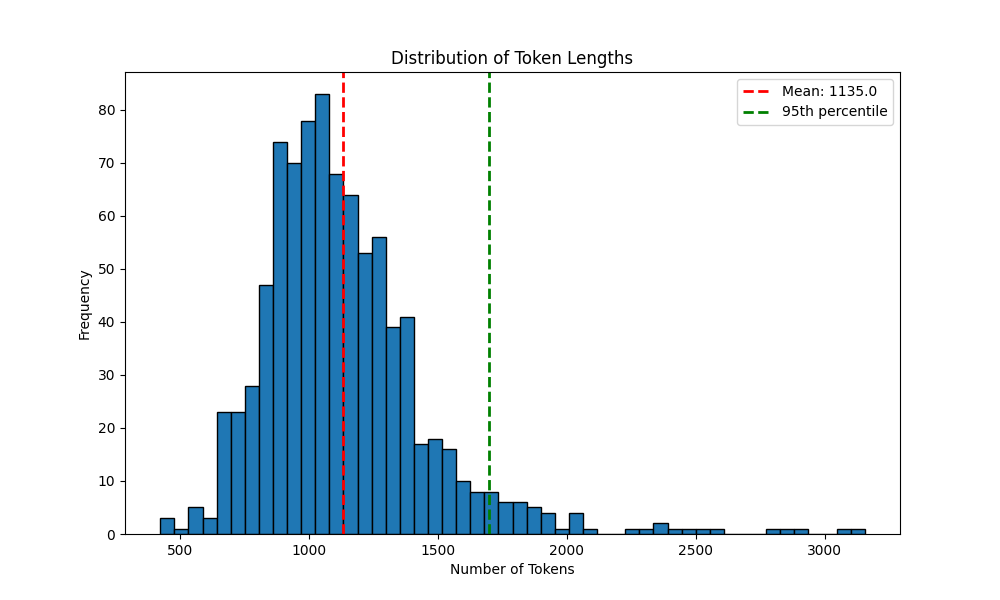
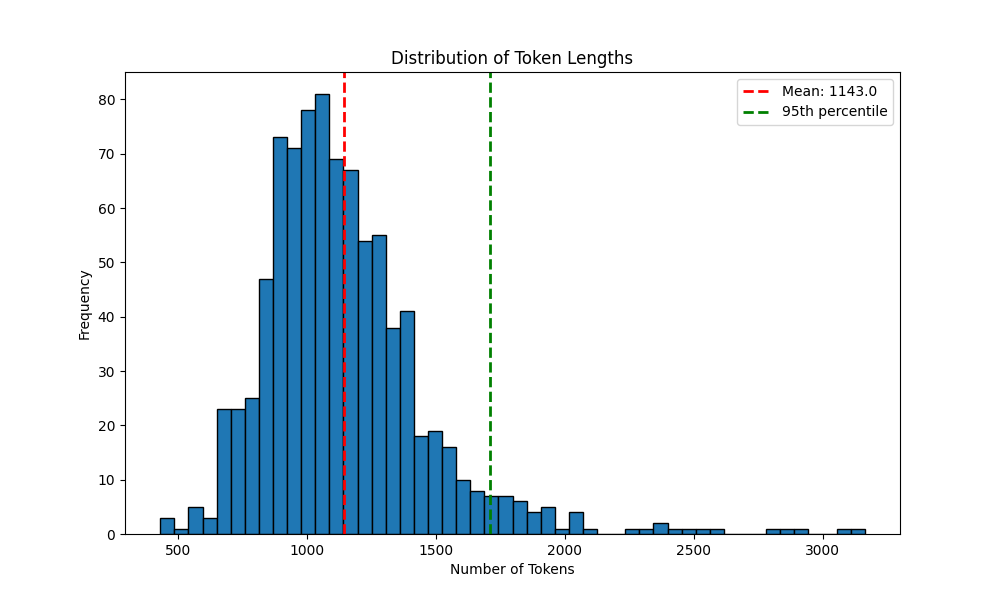
Not using <reasoning> as a special token

diff --git a/src/train_svg_model.py b/src/train_svg_model.py
@@ -68,8 +68,8 @@ class SVGDataset:
                 self.data.append(json.loads(line.strip()))
                 
         # Add special tokens if not present
-        special_tokens = {"additional_special_tokens": ["<reasoning>", "</reasoning>"]}
-        self.tokenizer.add_special_tokens(special_tokens)
+        # special_tokens = {"additional_special_tokens": ["<reasoning>", "</reasoning>"]}
+        # self.tokenizer.add_special_tokens(special_tokens)
     
     def prepare_dataset(self) -> DatasetDict:
         """Prepare the dataset for training by converting to HF Dataset format and splitting."""
@@ -159,7 +159,7 @@ def create_model_and_tokenizer(
         model = get_peft_model(model, peft_config)
         
     # Resize token embeddings for new special tokens
-    model.resize_token_embeddings(len(tokenizer))
+    # model.resize_token_embeddings(len(tokenizer))
     
     return model, tokenizer
 

diff --git a/src/analyze_token_lengths.py b/src/analyze_token_lengths.py
@@ -14,8 +14,8 @@ def analyze_token_lengths(data_path: str, model_name: str = "Qwen/Qwen2.5-1.5B-I
     """Analyze and visualize the token length distribution of the dataset."""
     # Load tokenizer
     tokenizer = AutoTokenizer.from_pretrained(model_name, trust_remote_code=True)
-    special_tokens = {"additional_special_tokens": ["<reasoning>", "</reasoning>"]}
-    tokenizer.add_special_tokens(special_tokens)
+    # special_tokens = {"additional_special_tokens": ["<reasoning>", "</reasoning>"]}
+    # tokenizer.add_special_tokens(special_tokens)
     
     # Load data and calculate lengths
     lengths = []

diff --git a/src/generate_svg.py b/src/generate_svg.py
@@ -28,9 +28,9 @@ def generate_svg(
     )
     
     # Add special tokens
-    special_tokens = {"additional_special_tokens": ["<reasoning>", "</reasoning>"]}
-    tokenizer.add_special_tokens(special_tokens)
-    model.resize_token_embeddings(len(tokenizer))
+    # special_tokens = {"additional_special_tokens": ["<reasoning>", "</reasoning>"]}
+    # tokenizer.add_special_tokens(special_tokens)
+    # model.resize_token_embeddings(len(tokenizer))
     
     # Load LoRA weights
     model = PeftModel.from_pretrained(model, model_path)
